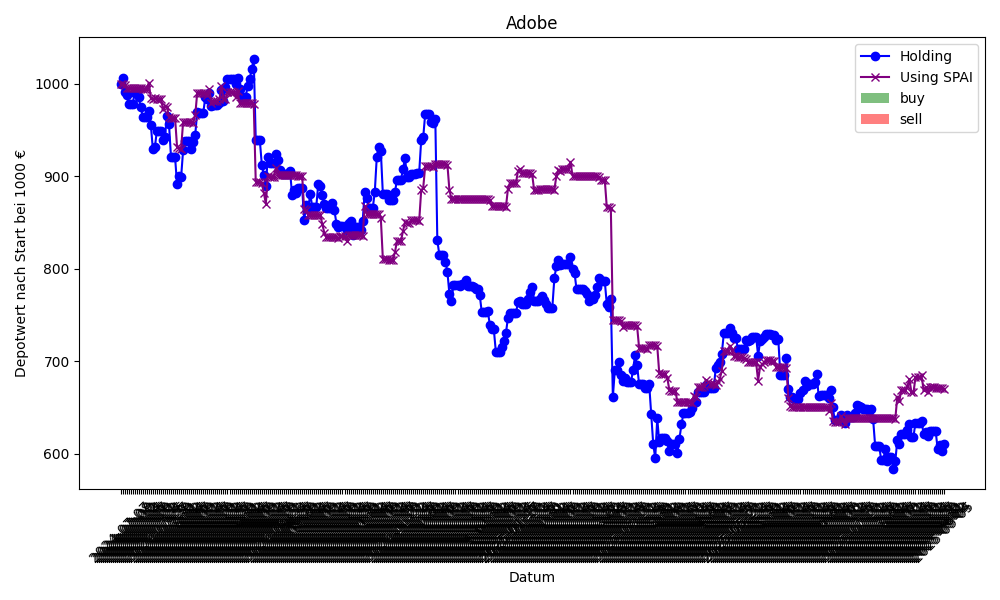
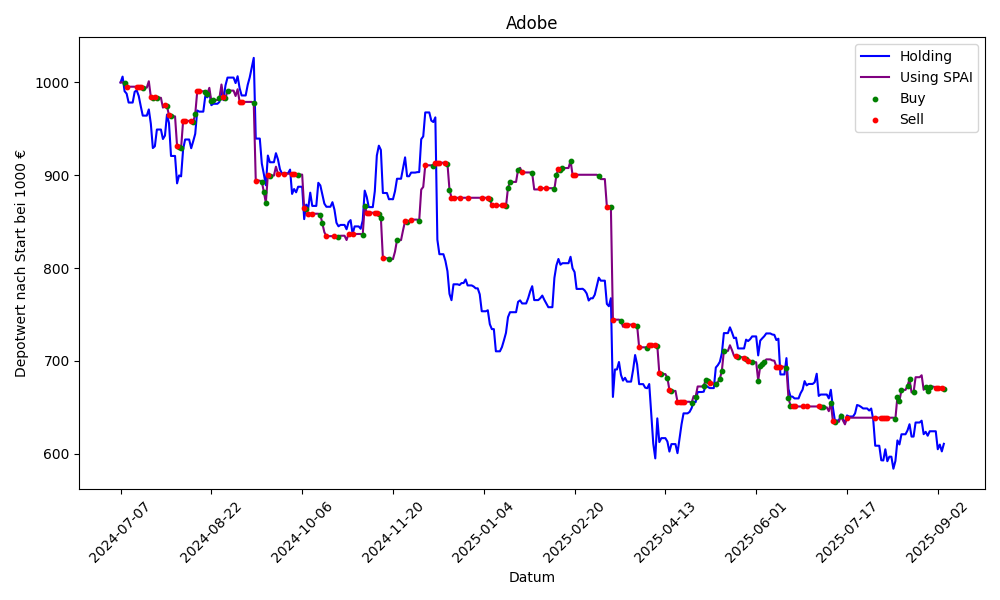
Update README.md with detailed project setup and customization instructions; update depot images for Adobe and Verizon stocks.

diff --git a/README.md b/README.md
@@ -1,8 +1,49 @@
 # Stock Prediction AI
 
-Stock Prediction AI is a proof-of-concept program designed to demonstrate that the stock market is not entirely unpredictable.
+Stock Prediction AI is a proof-of-concept program designed to demonstrate that the stock market is not entirely unpredictable. The project consists of two main Python scripts: `collector.py` and `predict_and_trade.py`.
 
-Please note, that the Program is not able to trade on weekends. So the flag is always set to hold. 
+- **`collector.py`**: This script gathers daily financial data for a list of tracked stocks. It collects general stock information, news articles related to the company and its CEO, and performs sentiment analysis on the news using the FinBERT model.
+
+- **`predict_and_trade.py`**: This script uses the collected data to train a linear regression model. It then predicts the next day's stock price movement and simulates a trading decision (Buy, Sell, or Hold) based on the prediction. The results of the simulation, including the depot value over time, are saved and visualized.
+
+The process is automated to run daily via a GitHub Actions workflow, which you can find in `.github/workflows/daily_collector.yml`.
+
+Please note, that the Program is not able to trade on weekends. So the flag is always set to hold.
+
+## Setup
+
+To get started with this project, follow these steps:
+
+1.  **Clone the repository:**
+    ```bash
+    git clone https://github.com/CastIehard/Stock-Prediction-AI.git
+    cd Stock-Prediction-AI
+    ```
+
+2.  **Install dependencies:**
+    Make sure you have Python 3 installed. Then, install the required packages using pip:
+    ```bash
+    pip install -r requirements.txt
+    ```
+
+3.  **Set up API Keys:**
+    This project requires API keys from [Alpha Vantage](https://www.alphavantage.co) (for stock data) and [NewsAPI](https://newsapi.org) (for news articles). You need to set them as environment variables named `ALPHA_API_KEY` and `NEWS_API_KEY`.
+
+    If you plan to use the automated GitHub workflow, you should add these keys as secrets to your GitHub repository with the names `ALPHA_API_KEY` and `NEWS_API_KEY`. You will also need to create a personal access token with repository write permissions and add it as a secret named `ACCESS_TOKEN`.
+
+## How to Adjust the Program
+
+You can customize the program in the following ways:
+
+-   **Track different stocks:** To add or remove stocks from the analysis, simply edit the `tracked_stocks.csv` file. Add the company name, stock ticker, and CEO's name for each stock you want to track.
+
+-   **Adjust the trading strategy:** The trading logic is controlled by constants at the beginning of `predict_and_trade.py`:
+    -   `TRAINING_AMOUNT`: The number of recent data points to use for training the model.
+    -   `BUY_THRESHOLD` / `SELL_THRESHOLD`: The prediction value thresholds that trigger a "Buy" or "Sell" action.
+    -   `TRADE_COST`: The cost of a single trade.
+
+-   **Modify the automation:** The schedule for the daily data collection and trading simulation is defined by a cron job in `.github/workflows/daily_collector.yml`. You can change the schedule to fit your needs.
+
 ## Current Status of Adobe Stock Prediction
 ![Depot](Stocks/Adobe/depot.png)
 ## Current Status of Verizon Stock Prediction
@@ -20,6 +61,3 @@ This project is licensed under the MIT License - see the [LICENSE](LICENSE) file
 ## Authors
 - **Luca Burghard**
 For any questions, suggestions, or contributions, please contact me at luca@castlehard.com
-
-## Support
-For support, please open an issue on the GitHub repository page.
